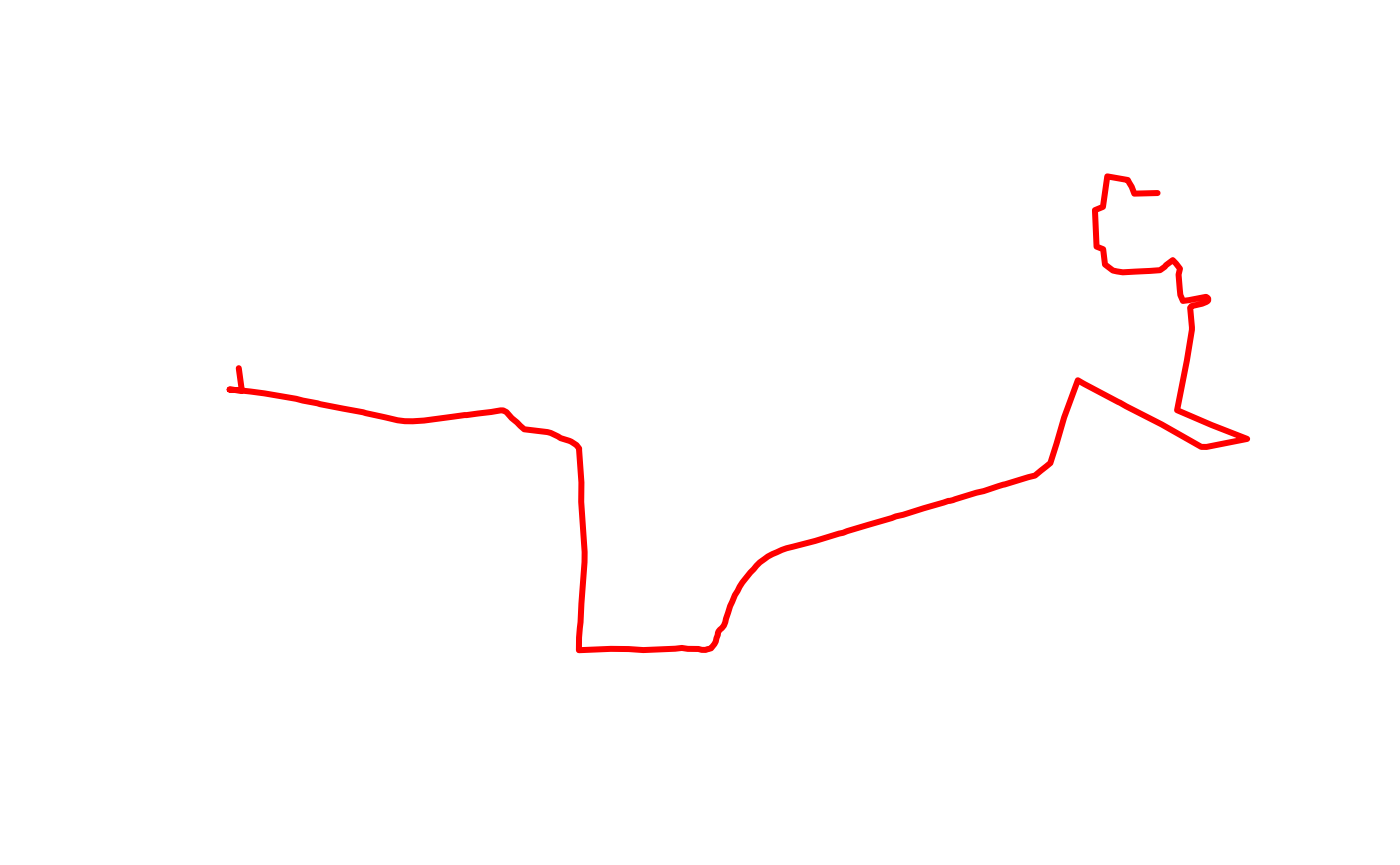
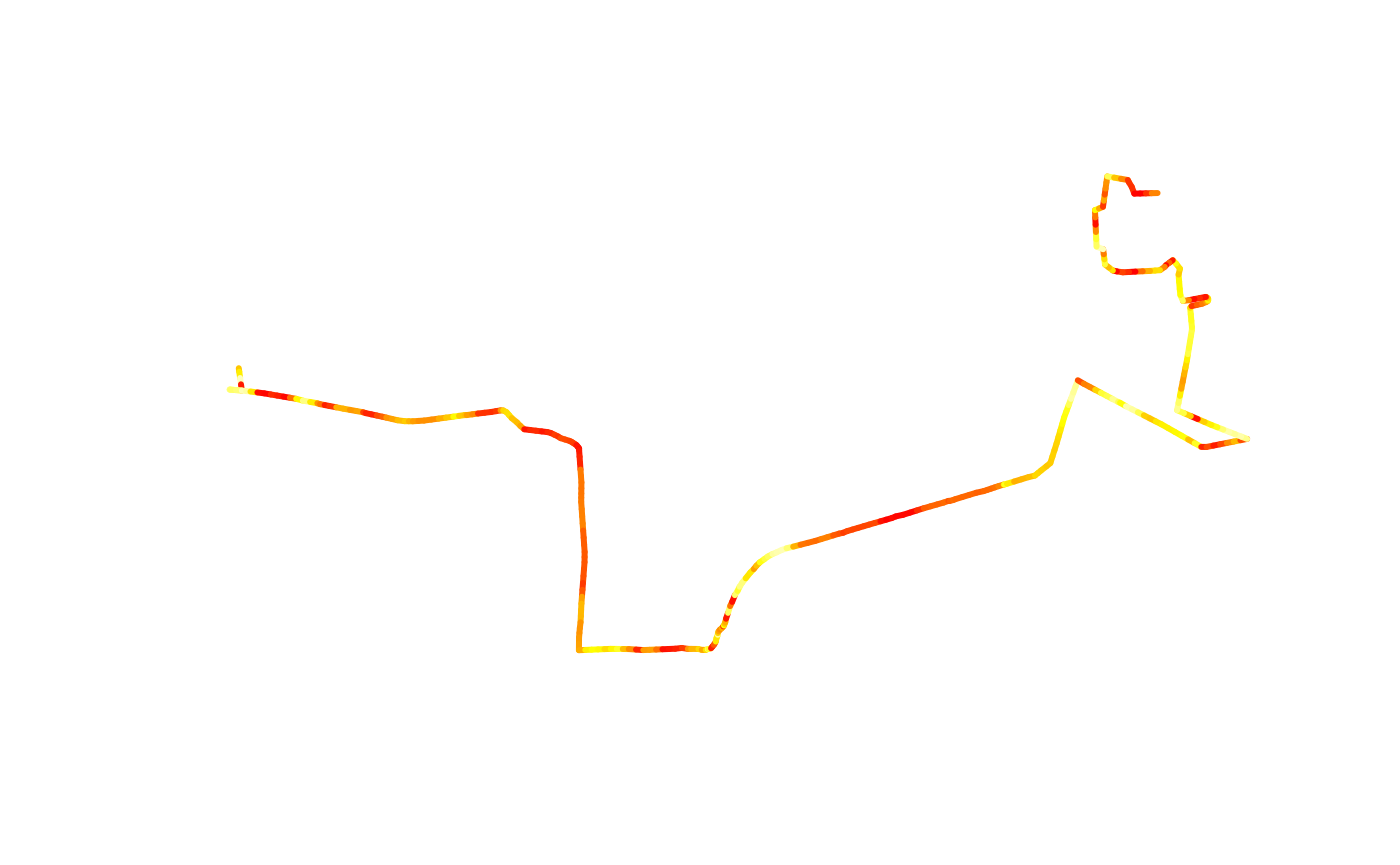
Built site for slopes@1.0.2:

diff --git a/articles/slopes.html b/articles/slopes.html
@@ -295,16 +295,22 @@ calculate its average slope using <code><a href="../reference/slope_xyz.html">sl
 segments of a linestring. First, let’s segment the
 <code>lisbon_route</code>:</p>
 <div class="sourceCode" id="cb10"><pre class="downlit sourceCode r">
-<code class="sourceCode R"><span><span class="va">lisbon_route_segments</span> <span class="op">=</span> <span class="fu">sf</span><span class="fu">::</span><span class="fu"><a href="https://r-spatial.github.io/sf/reference/geos_unary.html" class="external-link">st_segmentize</a></span><span class="op">(</span><span class="va">lisbon_route</span>, dfMaxLength <span class="op">=</span> <span class="fl">100</span><span class="op">)</span> <span class="co"># Arbitrary length</span></span>
-<span><span class="va">lisbon_route_segments</span> <span class="op">=</span> <span class="fu">sf</span><span class="fu">::</span><span class="fu"><a href="https://r-spatial.github.io/sf/reference/st_cast.html" class="external-link">st_cast</a></span><span class="op">(</span><span class="va">lisbon_route_segments</span>, <span class="st">"LINESTRING"</span><span class="op">)</span></span>
-<span><span class="co"># Add elevation to segments</span></span>
-<span><span class="va">lisbon_route_segments_xyz</span> <span class="op">=</span> <span class="fu"><a href="../reference/elevation_add.html">elevation_add</a></span><span class="op">(</span><span class="va">lisbon_route_segments</span>, dem <span class="op">=</span> <span class="va">dem_lisbon</span><span class="op">)</span></span></code></pre></div>
+<code class="sourceCode R"><span><span class="va">lisbon_route_xyz</span> <span class="op">=</span> <span class="fu"><a href="../reference/elevation_add.html">elevation_add</a></span><span class="op">(</span><span class="va">lisbon_route</span>, dem <span class="op">=</span> <span class="fu"><a href="../reference/dem_lisbon.html">dem_lisbon</a></span><span class="op">(</span><span class="op">)</span><span class="op">)</span></span>
+<span><span class="va">lisbon_route_segments_xyz</span> <span class="op">=</span> <span class="fu">sf</span><span class="fu">::</span><span class="fu"><a href="https://r-spatial.github.io/sf/reference/st_cast.html" class="external-link">st_cast</a></span><span class="op">(</span><span class="va">lisbon_route_xyz</span>, <span class="st">"POINT"</span><span class="op">)</span> <span class="op">|&gt;</span></span>
+<span>  <span class="fu">sf</span><span class="fu">::</span><span class="fu"><a href="https://r-spatial.github.io/sf/reference/st_coordinates.html" class="external-link">st_coordinates</a></span><span class="op">(</span><span class="op">)</span> <span class="op">|&gt;</span></span>
+<span>  <span class="op">(</span>\<span class="op">(</span><span class="va">m</span><span class="op">)</span> <span class="op">{</span></span>
+<span>    <span class="va">n</span> <span class="op">=</span> <span class="fu"><a href="https://rdrr.io/r/base/nrow.html" class="external-link">nrow</a></span><span class="op">(</span><span class="va">m</span><span class="op">)</span></span>
+<span>    <span class="va">segs</span> <span class="op">=</span> <span class="fu"><a href="https://rdrr.io/r/base/lapply.html" class="external-link">lapply</a></span><span class="op">(</span><span class="fu"><a href="https://rdrr.io/r/base/seq.html" class="external-link">seq_len</a></span><span class="op">(</span><span class="va">n</span> <span class="op">-</span> <span class="fl">1</span><span class="op">)</span>, <span class="kw">function</span><span class="op">(</span><span class="va">i</span><span class="op">)</span> <span class="fu">sf</span><span class="fu">::</span><span class="fu"><a href="https://r-spatial.github.io/sf/reference/st.html" class="external-link">st_linestring</a></span><span class="op">(</span><span class="va">m</span><span class="op">[</span><span class="va">i</span><span class="op">:</span><span class="op">(</span><span class="va">i</span><span class="op">+</span><span class="fl">1</span><span class="op">)</span>, <span class="fl">1</span><span class="op">:</span><span class="fl">3</span><span class="op">]</span><span class="op">)</span><span class="op">)</span></span>
+<span>    <span class="fu">sf</span><span class="fu">::</span><span class="fu"><a href="https://r-spatial.github.io/sf/reference/sf.html" class="external-link">st_sf</a></span><span class="op">(</span>geometry <span class="op">=</span> <span class="fu">sf</span><span class="fu">::</span><span class="fu"><a href="https://r-spatial.github.io/sf/reference/sfc.html" class="external-link">st_sfc</a></span><span class="op">(</span><span class="va">segs</span>, crs <span class="op">=</span> <span class="fu">sf</span><span class="fu">::</span><span class="fu"><a href="https://r-spatial.github.io/sf/reference/st_crs.html" class="external-link">st_crs</a></span><span class="op">(</span><span class="va">lisbon_route_xyz</span><span class="op">)</span><span class="op">)</span><span class="op">)</span></span>
+<span>  <span class="op">}</span><span class="op">)</span><span class="op">(</span><span class="op">)</span></span>
+<span><span class="co">#&gt; Warning in st_cast.sf(lisbon_route_xyz, "POINT"): repeating attributes for all</span></span>
+<span><span class="co">#&gt; sub-geometries for which they may not be constant</span></span></code></pre></div>
 <p>Now calculate the slope for each segment:</p>
 <div class="sourceCode" id="cb11"><pre class="downlit sourceCode r">
 <code class="sourceCode R"><span><span class="va">lisbon_route_segments_xyz</span><span class="op">$</span><span class="va">slope</span> <span class="op">=</span> <span class="fu"><a href="../reference/slope_xyz.html">slope_xyz</a></span><span class="op">(</span><span class="va">lisbon_route_segments_xyz</span><span class="op">)</span></span>
 <span><span class="fu"><a href="https://rdrr.io/r/base/summary.html" class="external-link">summary</a></span><span class="op">(</span><span class="va">lisbon_route_segments_xyz</span><span class="op">$</span><span class="va">slope</span><span class="op">)</span></span>
-<span><span class="co">#&gt;    Min. 1st Qu.  Median    Mean 3rd Qu.    Max. </span></span>
-<span><span class="co">#&gt; 0.07817 0.07817 0.07817 0.07817 0.07817 0.07817</span></span></code></pre></div>
+<span><span class="co">#&gt;      Min.   1st Qu.    Median      Mean   3rd Qu.      Max.       NAs </span></span>
+<span><span class="co">#&gt; 0.0001026 0.0239350 0.0545492 0.0770948 0.1076403 0.4570354        24</span></span></code></pre></div>
 <p>You can plot these segments, for example, colored by their slope.
 Here we use <code>tmap</code> for a more advanced plot (requires
 <code>tmap</code> package).</p>

diff --git a/articles/benchmark.html b/articles/benchmark.html
@@ -119,12 +119,12 @@ second using different interpolation methods:</p>
 <span><span class="co">#&gt; <span style="color: #949494;"># A tibble: 2 × 6</span></span></span>
 <span><span class="co">#&gt;   expression      min   median `itr/sec` mem_alloc `gc/sec`</span></span>
 <span><span class="co">#&gt;   <span style="color: #949494; font-style: italic;">&lt;bch:expr&gt;</span> <span style="color: #949494; font-style: italic;">&lt;bch:tm&gt;</span> <span style="color: #949494; font-style: italic;">&lt;bch:tm&gt;</span>     <span style="color: #949494; font-style: italic;">&lt;dbl&gt;</span> <span style="color: #949494; font-style: italic;">&lt;bch:byt&gt;</span>    <span style="color: #949494; font-style: italic;">&lt;dbl&gt;</span></span></span>
-<span><span class="co">#&gt; <span style="color: #BCBCBC;">1</span> bilinear     20.8ms   22.5ms      44.9    18.2MB     35.9</span></span>
-<span><span class="co">#&gt; <span style="color: #BCBCBC;">2</span> simple       17.9ms   18.5ms      53.7    1.88MB     35.8</span></span></code></pre></div>
+<span><span class="co">#&gt; <span style="color: #BCBCBC;">1</span> bilinear     21.3ms   22.5ms      44.6    18.2MB     35.7</span></span>
+<span><span class="co">#&gt; <span style="color: #BCBCBC;">2</span> simple       18.3ms   18.8ms      52.8    1.88MB     31.7</span></span></code></pre></div>
 <p>That is approximately</p>
 <div class="sourceCode" id="cb4"><pre class="downlit sourceCode r">
 <code class="sourceCode R"><span><span class="fu"><a href="https://rdrr.io/r/base/Round.html" class="external-link">round</a></span><span class="op">(</span><span class="va">res</span><span class="op">$</span><span class="va">`itr/sec`</span> <span class="op">*</span> <span class="fu"><a href="https://rdrr.io/r/base/nrow.html" class="external-link">nrow</a></span><span class="op">(</span><span class="va">r</span><span class="op">)</span><span class="op">)</span></span>
-<span><span class="co">#&gt; [1] 12165 14540</span></span></code></pre></div>
+<span><span class="co">#&gt; [1] 12090 14298</span></span></code></pre></div>
 <p>routes per second using <code>bilinear</code> and <code>simple</code>
 interpolation methods, respectively.</p>
 <p>To go faster, you can chose the <code>simple</code> method to gain
@@ -139,11 +139,11 @@ some speed at the expense of accuracy:</p>
 <span><span class="co">#&gt; <span style="color: #949494;"># A tibble: 2 × 6</span></span></span>
 <span><span class="co">#&gt;   expression      min   median `itr/sec` mem_alloc `gc/sec`</span></span>
 <span><span class="co">#&gt;   <span style="color: #949494; font-style: italic;">&lt;bch:expr&gt;</span> <span style="color: #949494; font-style: italic;">&lt;bch:tm&gt;</span> <span style="color: #949494; font-style: italic;">&lt;bch:tm&gt;</span>     <span style="color: #949494; font-style: italic;">&lt;dbl&gt;</span> <span style="color: #949494; font-style: italic;">&lt;bch:byt&gt;</span>    <span style="color: #949494; font-style: italic;">&lt;dbl&gt;</span></span></span>
-<span><span class="co">#&gt; <span style="color: #BCBCBC;">1</span> bilinear     21.7ms   22.4ms      43.8    1.73MB     29.2</span></span>
-<span><span class="co">#&gt; <span style="color: #BCBCBC;">2</span> simple       18.6ms     19ms      52.3    1.81MB     44.2</span></span></code></pre></div>
+<span><span class="co">#&gt; <span style="color: #BCBCBC;">1</span> bilinear     21.6ms   23.4ms      43.0    1.73MB     31.3</span></span>
+<span><span class="co">#&gt; <span style="color: #BCBCBC;">2</span> simple       19.6ms   19.9ms      49.6    1.81MB     41.4</span></span></code></pre></div>
 <div class="sourceCode" id="cb7"><pre class="downlit sourceCode r">
 <code class="sourceCode R"><span><span class="fu"><a href="https://rdrr.io/r/base/Round.html" class="external-link">round</a></span><span class="op">(</span><span class="va">res2</span><span class="op">$</span><span class="va">`itr/sec`</span> <span class="op">*</span> <span class="fu"><a href="https://rdrr.io/r/base/nrow.html" class="external-link">nrow</a></span><span class="op">(</span><span class="va">r</span><span class="op">)</span><span class="op">)</span></span>
-<span><span class="co">#&gt; [1] 11878 14166</span></span></code></pre></div>
+<span><span class="co">#&gt; [1] 11648 13453</span></span></code></pre></div>
 </div>
   </div>
 